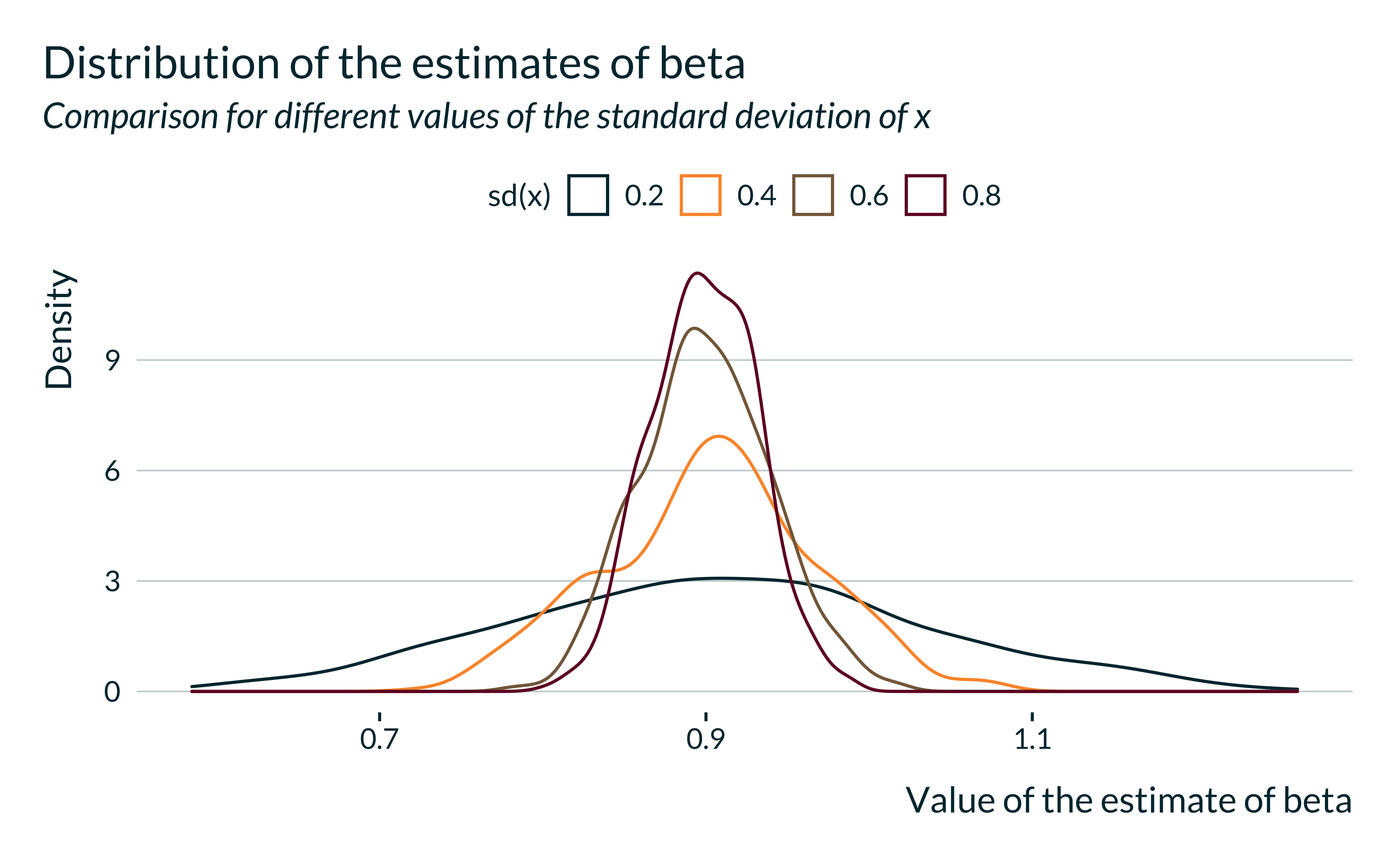
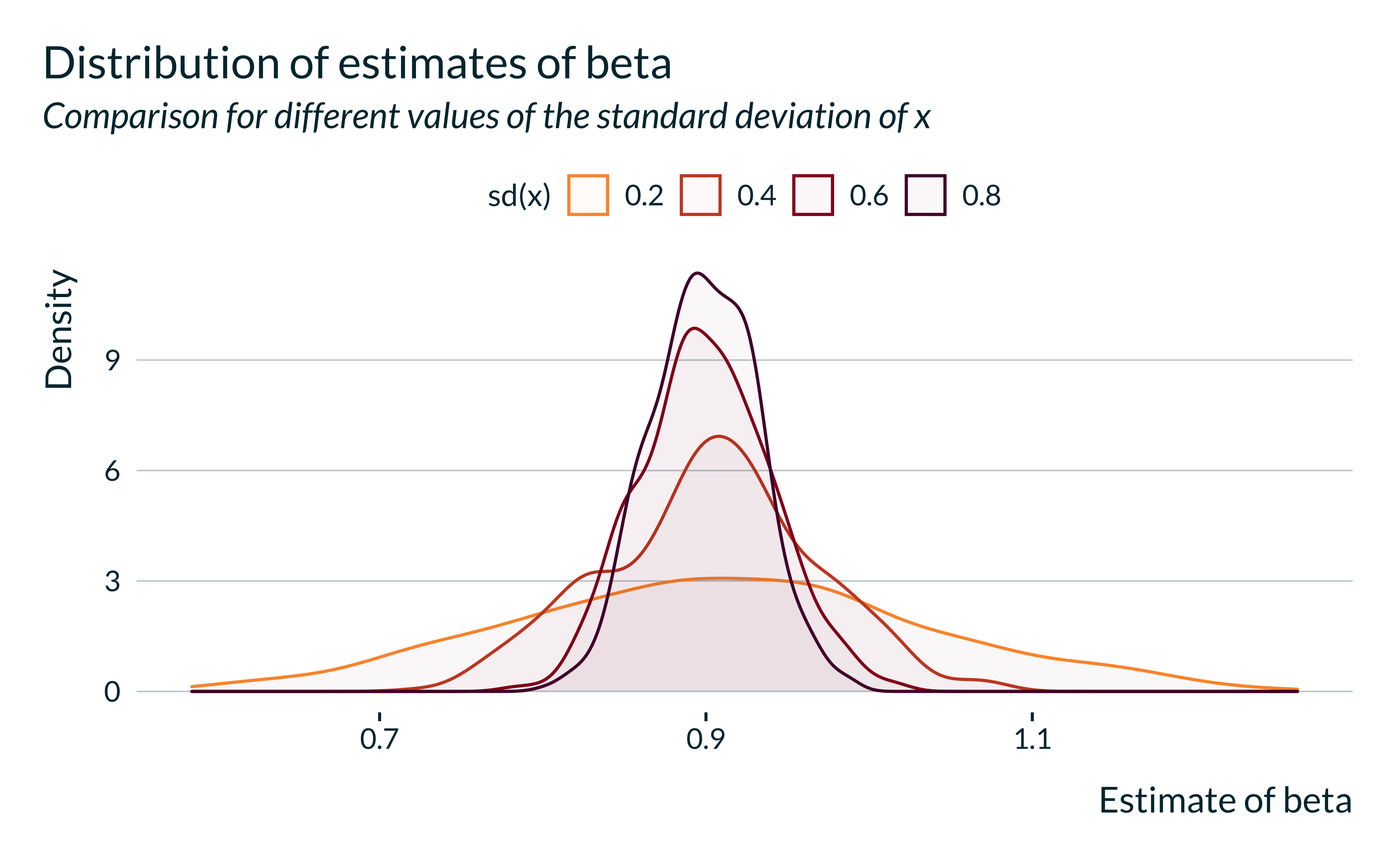
FIxing Leo's comments

diff --git a/docs/posts/2022-10-13-running-simulations/index.html b/docs/posts/2022-10-13-running-simulations/index.html
@@ -90,7 +90,7 @@ code span.wa { color: #5e5e5e; font-style: italic; } /* Warning */
   <!--radix_placeholder_meta_tags-->
 <title>Vincent Bagilet: Running simulations</title>
 
-<meta property="description" itemprop="description" content="In this short tutorial I present a simple workflow I use to run econometrics simulations in R."/>
+<meta property="description" itemprop="description" content="In this short tutorial I present a simple workflow I use to run simulations for regression analysis in R."/>
 
 <link rel="canonical" href="https://vincentbagilet.github.io/posts/2022-10-13-running-simulations/"/>
 
@@ -102,7 +102,7 @@ code span.wa { color: #5e5e5e; font-style: italic; } /* Warning */
 <!--  https://developers.facebook.com/docs/sharing/webmasters#markup -->
 <meta property="og:title" content="Vincent Bagilet: Running simulations"/>
 <meta property="og:type" content="article"/>
-<meta property="og:description" content="In this short tutorial I present a simple workflow I use to run econometrics simulations in R."/>
+<meta property="og:description" content="In this short tutorial I present a simple workflow I use to run simulations for regression analysis in R."/>
 <meta property="og:url" content="https://vincentbagilet.github.io/posts/2022-10-13-running-simulations/"/>
 <meta property="og:image" content="https://vincentbagilet.github.io/posts/2022-10-13-running-simulations/spiral.jpg"/>
 <meta property="og:locale" content="en_US"/>
@@ -111,7 +111,7 @@ code span.wa { color: #5e5e5e; font-style: italic; } /* Warning */
 <!--  https://dev.twitter.com/cards/types/summary -->
 <meta property="twitter:card" content="summary_large_image"/>
 <meta property="twitter:title" content="Vincent Bagilet: Running simulations"/>
-<meta property="twitter:description" content="In this short tutorial I present a simple workflow I use to run econometrics simulations in R."/>
+<meta property="twitter:description" content="In this short tutorial I present a simple workflow I use to run simulations for regression analysis in R."/>
 <meta property="twitter:url" content="https://vincentbagilet.github.io/posts/2022-10-13-running-simulations/"/>
 <meta property="twitter:image" content="https://vincentbagilet.github.io/posts/2022-10-13-running-simulations/spiral.jpg"/>
 
@@ -119,7 +119,7 @@ code span.wa { color: #5e5e5e; font-style: italic; } /* Warning */
   <!--radix_placeholder_rmarkdown_metadata-->
 
 <script type="text/json" id="radix-rmarkdown-metadata">
-{"type":"list","attributes":{"names":{"type":"character","attributes":{},"value":["title","description","preview","categories","author","date","citation","output","editor_options","citation_url","canonical_url"]}},"value":[{"type":"character","attributes":{},"value":["Running simulations"]},{"type":"character","attributes":{},"value":["In this short tutorial I present a simple workflow I use to run econometrics simulations in R."]},{"type":"character","attributes":{},"value":["spiral.jpg"]},{"type":"character","attributes":{},"value":["R","Simulations","Tutorial"]},{"type":"list","attributes":{},"value":[{"type":"list","attributes":{"names":{"type":"character","attributes":{},"value":["name","url"]}},"value":[{"type":"character","attributes":{},"value":["Vincent Bagilet"]},{"type":"list","attributes":{"names":{"type":"character","attributes":{},"value":["https://vincentbagilet.github.io"]}},"value":[{"type":"NULL"}]}]}]},{"type":"character","attributes":{},"value":["2022-10-13"]},{"type":"logical","attributes":{},"value":[false]},{"type":"list","attributes":{"names":{"type":"character","attributes":{},"value":["distill::distill_article"]}},"value":[{"type":"list","attributes":{"names":{"type":"character","attributes":{},"value":["self_contained"]}},"value":[{"type":"logical","attributes":{},"value":[false]}]}]},{"type":"list","attributes":{"names":{"type":"character","attributes":{},"value":["chunk_output_type"]}},"value":[{"type":"character","attributes":{},"value":["console"]}]},{"type":"character","attributes":{},"value":["https://vincentbagilet.github.io/posts/2022-10-13-running-simulations/"]},{"type":"character","attributes":{},"value":["https://vincentbagilet.github.io/posts/2022-10-13-running-simulations/"]}]}
+{"type":"list","attributes":{"names":{"type":"character","attributes":{},"value":["title","description","preview","categories","author","date","citation","output","editor_options","citation_url","canonical_url"]}},"value":[{"type":"character","attributes":{},"value":["Running simulations"]},{"type":"character","attributes":{},"value":["In this short tutorial I present a simple workflow I use to run simulations for regression analysis in R."]},{"type":"character","attributes":{},"value":["spiral.jpg"]},{"type":"character","attributes":{},"value":["R","Simulations","Tutorial"]},{"type":"list","attributes":{},"value":[{"type":"list","attributes":{"names":{"type":"character","attributes":{},"value":["name","url"]}},"value":[{"type":"character","attributes":{},"value":["Vincent Bagilet"]},{"type":"list","attributes":{"names":{"type":"character","attributes":{},"value":["https://vincentbagilet.github.io"]}},"value":[{"type":"NULL"}]}]}]},{"type":"character","attributes":{},"value":["2022-10-13"]},{"type":"logical","attributes":{},"value":[false]},{"type":"list","attributes":{"names":{"type":"character","attributes":{},"value":["distill::distill_article"]}},"value":[{"type":"list","attributes":{"names":{"type":"character","attributes":{},"value":["self_contained"]}},"value":[{"type":"logical","attributes":{},"value":[false]}]}]},{"type":"list","attributes":{"names":{"type":"character","attributes":{},"value":["chunk_output_type"]}},"value":[{"type":"character","attributes":{},"value":["console"]}]},{"type":"character","attributes":{},"value":["https://vincentbagilet.github.io/posts/2022-10-13-running-simulations/"]},{"type":"character","attributes":{},"value":["https://vincentbagilet.github.io/posts/2022-10-13-running-simulations/"]}]}
 </script>
 <!--/radix_placeholder_rmarkdown_metadata-->
   
@@ -2202,7 +2202,7 @@ d-appendix d-footnote-list a.footnote-backlink {
 <!--radix_placeholder_front_matter-->
 
 <script id="distill-front-matter" type="text/json">
-{"title":"Running simulations","description":"In this short tutorial I present a simple workflow I use to run econometrics simulations in R.","authors":[{"author":"Vincent Bagilet","authorURL":{"https://vincentbagilet.github.io":{}},"affiliation":"&nbsp;","affiliationURL":"#","orcidID":""}],"publishedDate":"2022-10-13T00:00:00.000-04:00","citationText":"Bagilet, 2022"}
+{"title":"Running simulations","description":"In this short tutorial I present a simple workflow I use to run simulations for regression analysis in R.","authors":[{"author":"Vincent Bagilet","authorURL":{"https://vincentbagilet.github.io":{}},"affiliation":"&nbsp;","affiliationURL":"#","orcidID":""}],"publishedDate":"2022-10-13T00:00:00.000-04:00","citationText":"Bagilet, 2022"}
 </script>
 
 <!--/radix_placeholder_front_matter-->
@@ -2234,7 +2234,7 @@ d-appendix d-footnote-list a.footnote-backlink {
   <a href="../../projects.html#category:Tutorial" class="dt-tag">Tutorial</a>
 </div>
 <!--/radix_placeholder_categories-->
-<p><p>In this short tutorial I present a simple workflow I use to run econometrics simulations in R.</p></p>
+<p><p>In this short tutorial I present a simple workflow I use to run simulations for regression analysis in R.</p></p>
 </div>
 
 <div class="d-byline">
@@ -2244,7 +2244,7 @@ d-appendix d-footnote-list a.footnote-backlink {
 </div>
 
 <div class="d-article">
-<p>This tutorial describes the workflow I use to run fake-data econometrics simulations in R. At the end of the document one can find a template to run a simple simulation from A to Z. It can be copied/pasted and easily adapted to address specific questions.</p>
+<p>This tutorial describes the workflow I use to run fake-data simulations for regression analysis in R. At the end of the document one can find a template to run a simple simulation from A to Z. It can be copied/pasted and easily adapted to address specific questions.</p>
 <p>I developed this workflow with <a href="https://lzabrocki.github.io/">Léo Zabrocki</a>. On <a href="https://vincentbagilet.github.io/causal_inflation/">the website of one of our projects</a>, we describe how we ran more advanced fake data simulations for various causal inference methods (IV, event-study, RDD, matching). On <a href="https://vincentbagilet.github.io/inference_pollution/">the website of another project</a>, we describe how we ran simulations based on real data, also for various causal inference methods.</p>
 <h1 id="simulation-workflow">Simulation workflow</h1>
 <ul>
@@ -2264,7 +2264,7 @@ d-appendix d-footnote-list a.footnote-backlink {
 <p><span class="math display">\[ y_i = \alpha + \beta x_i + u_i \]</span>
 for individual <span class="math inline">\(i \in \{1, .., N\}\)</span> where <span class="math inline">\(u_i \sim \mathcal{N}(0, \sigma_u^2)\)</span> and <span class="math inline">\(x_i \sim \mathcal{N}(\mu_x, \sigma_x^2)\)</span>.</p>
 <h3 id="packages">Packages</h3>
-<p>First load the packages necessary to run the simulation. Here I also load an additional and non necessary package that I useto produce my graphs.</p>
+<p>First load the packages necessary to run the simulation. Here I also load an additional and a non-necessary package to set my default ggplot theme for graphs.</p>
 <div class="layout-chunk" data-layout="l-body">
 <div class="sourceCode">
 <pre class="sourceCode r"><code class="sourceCode r"><span><span class='co'>#necessary packages</span></span>
@@ -2273,7 +2273,7 @@ for individual <span class="math inline">\(i \in \{1, .., N\}\)</span> where <sp
 <span></span>
 <span><span class='co'>#additional packages</span></span>
 <span><span class='kw'><a href='https://rdrr.io/r/base/library.html'>library</a></span><span class='op'>(</span><span class='va'><a href='https://vincentbagilet.github.io/mediocrethemes/'>mediocrethemes</a></span><span class='op'>)</span> <span class='co'>#my ggplot theme package</span></span>
-<span><span class='fu'>mediocrethemes</span><span class='fu'>::</span><span class='fu'><a href='https://vincentbagilet.github.io/mediocrethemes/reference/set_mediocre_all.html'>set_mediocre_all</a></span><span class='op'>(</span><span class='op'>)</span> <span class='co'>#to produce all graphs with my theme</span></span></code></pre>
+<span><span class='fu'>mediocrethemes</span><span class='fu'>::</span><span class='fu'><a href='https://vincentbagilet.github.io/mediocrethemes/reference/set_mediocre_all.html'>set_mediocre_all</a></span><span class='op'>(</span>gradient <span class='op'>=</span> <span class='st'>"right"</span><span class='op'>)</span> <span class='co'>#to produce all graphs with my theme</span></span></code></pre>
 </div>
 </div>
 <h3 id="define-a-set-of-baseline-parameters">Define a set of baseline parameters</h3>
@@ -2329,7 +2329,7 @@ for individual <span class="math inline">\(i \in \{1, .., N\}\)</span> where <sp
 <div class="layout-chunk" data-layout="l-body">
 <div class="sourceCode">
 <pre class="sourceCode r"><code class="sourceCode r"><span><span class='va'>run_estim</span> <span class='op'>&lt;-</span> <span class='kw'>function</span><span class='op'>(</span><span class='va'>data</span><span class='op'>)</span> <span class='op'>{</span></span>
-<span>  <span class='va'>reg</span> <span class='op'>&lt;-</span> <span class='fu'><a href='https://rdrr.io/r/stats/lm.html'>lm</a></span><span class='op'>(</span>data <span class='op'>=</span> <span class='va'>data</span>, <span class='va'>y</span> <span class='op'>~</span> <span class='va'>x</span><span class='op'>)</span> <span class='op'><a href='https://magrittr.tidyverse.org/reference/pipe.html'>%&gt;%</a></span></span>
+<span>  <span class='fu'><a href='https://rdrr.io/r/stats/lm.html'>lm</a></span><span class='op'>(</span>data <span class='op'>=</span> <span class='va'>data</span>, <span class='va'>y</span> <span class='op'>~</span> <span class='va'>x</span><span class='op'>)</span> <span class='op'><a href='https://magrittr.tidyverse.org/reference/pipe.html'>%&gt;%</a></span></span>
 <span>    <span class='fu'>broom</span><span class='fu'>::</span><span class='fu'><a href='https://generics.r-lib.org/reference/tidy.html'>tidy</a></span><span class='op'>(</span><span class='op'>)</span> <span class='op'><a href='https://magrittr.tidyverse.org/reference/pipe.html'>%&gt;%</a></span></span>
 <span>    <span class='fu'><a href='https://dplyr.tidyverse.org/reference/filter.html'>filter</a></span><span class='op'>(</span><span class='va'>term</span> <span class='op'>==</span> <span class='st'>"x"</span><span class='op'>)</span> </span>
 <span><span class='op'>}</span></span></code></pre>
@@ -2350,9 +2350,9 @@ for individual <span class="math inline">\(i \in \{1, .., N\}\)</span> where <sp
 <tbody>
 <tr class="odd">
 <td style="text-align: left;">x</td>
-<td style="text-align: right;">0.929199</td>
-<td style="text-align: right;">0.027542</td>
-<td style="text-align: right;">33.7375</td>
+<td style="text-align: right;">0.93</td>
+<td style="text-align: right;">0.03</td>
+<td style="text-align: right;">33.74</td>
 <td style="text-align: right;">0</td>
 </tr>
 </tbody>
@@ -2584,13 +2584,13 @@ for individual <span class="math inline">\(i \in \{1, .., N\}\)</span> where <sp
 <pre class="sourceCode r"><code class="sourceCode r"><span><span class='va'>result_sim_long</span> <span class='op'><a href='https://magrittr.tidyverse.org/reference/pipe.html'>%&gt;%</a></span> </span>
 <span>  <span class='fu'><a href='https://dplyr.tidyverse.org/reference/mutate.html'>mutate</a></span><span class='op'>(</span>sigma_x <span class='op'>=</span> <span class='fu'><a href='https://rdrr.io/r/base/factor.html'>as.factor</a></span><span class='op'>(</span><span class='va'>sigma_x</span><span class='op'>)</span><span class='op'>)</span> <span class='op'><a href='https://magrittr.tidyverse.org/reference/pipe.html'>%&gt;%</a></span> </span>
 <span>  <span class='fu'><a href='https://ggplot2.tidyverse.org/reference/ggplot.html'>ggplot</a></span><span class='op'>(</span><span class='op'>)</span> <span class='op'>+</span></span>
-<span>  <span class='fu'><a href='https://ggplot2.tidyverse.org/reference/geom_density.html'>geom_density</a></span><span class='op'>(</span><span class='fu'><a href='https://ggplot2.tidyverse.org/reference/aes.html'>aes</a></span><span class='op'>(</span>x <span class='op'>=</span> <span class='va'>estimate</span>, color <span class='op'>=</span> <span class='va'>sigma_x</span><span class='op'>)</span>, alpha <span class='op'>=</span> <span class='fl'>0</span><span class='op'>)</span> <span class='op'>+</span></span>
+<span>  <span class='fu'><a href='https://ggplot2.tidyverse.org/reference/geom_density.html'>geom_density</a></span><span class='op'>(</span><span class='fu'><a href='https://ggplot2.tidyverse.org/reference/aes.html'>aes</a></span><span class='op'>(</span>x <span class='op'>=</span> <span class='va'>estimate</span>, color <span class='op'>=</span> <span class='va'>sigma_x</span><span class='op'>)</span>, alpha <span class='op'>=</span> <span class='fl'>0.03</span><span class='op'>)</span> <span class='op'>+</span></span>
 <span>  <span class='fu'><a href='https://ggplot2.tidyverse.org/reference/labs.html'>labs</a></span><span class='op'>(</span></span>
-<span>    title <span class='op'>=</span> <span class='st'>"Distribution of the estimates of beta"</span>,</span>
+<span>    title <span class='op'>=</span> <span class='st'>"Distribution of estimates of beta"</span>,</span>
 <span>    subtitle <span class='op'>=</span> <span class='st'>"Comparison for different values of the standard deviation of x"</span>,</span>
 <span>    color <span class='op'>=</span> <span class='st'>"sd(x)"</span>,</span>
 <span>    fill <span class='op'>=</span> <span class='st'>"sd(x)"</span>,</span>
-<span>    x <span class='op'>=</span> <span class='st'>"Value of the estimate of beta"</span>,</span>
+<span>    x <span class='op'>=</span> <span class='st'>"Estimate of beta"</span>,</span>
 <span>    y <span class='op'>=</span> <span class='st'>"Density"</span></span>
 <span>  <span class='op'>)</span></span></code></pre>
 </div>
@@ -2636,7 +2636,7 @@ for individual <span class="math inline">\(i \in \{1, .., N\}\)</span> where <sp
 <span></span>
 <span><span class='co'>#function to run the estimation</span></span>
 <span><span class='va'>run_estim</span> <span class='op'>&lt;-</span> <span class='kw'>function</span><span class='op'>(</span><span class='va'>data</span><span class='op'>)</span> <span class='op'>{</span></span>
-<span>  <span class='va'>reg</span> <span class='op'>&lt;-</span> <span class='fu'><a href='https://rdrr.io/r/stats/lm.html'>lm</a></span><span class='op'>(</span>data <span class='op'>=</span> <span class='va'>data</span>, <span class='va'>y</span> <span class='op'>~</span> <span class='va'>x</span><span class='op'>)</span> <span class='op'><a href='https://magrittr.tidyverse.org/reference/pipe.html'>%&gt;%</a></span></span>
+<span>  <span class='fu'><a href='https://rdrr.io/r/stats/lm.html'>lm</a></span><span class='op'>(</span>data <span class='op'>=</span> <span class='va'>data</span>, <span class='va'>y</span> <span class='op'>~</span> <span class='va'>x</span><span class='op'>)</span> <span class='op'><a href='https://magrittr.tidyverse.org/reference/pipe.html'>%&gt;%</a></span></span>
 <span>    <span class='fu'>broom</span><span class='fu'>::</span><span class='fu'><a href='https://generics.r-lib.org/reference/tidy.html'>tidy</a></span><span class='op'>(</span><span class='op'>)</span> <span class='op'><a href='https://magrittr.tidyverse.org/reference/pipe.html'>%&gt;%</a></span></span>
 <span>    <span class='fu'><a href='https://dplyr.tidyverse.org/reference/filter.html'>filter</a></span><span class='op'>(</span><span class='va'>term</span> <span class='op'>==</span> <span class='st'>"x"</span><span class='op'>)</span> </span>
 <span><span class='op'>}</span></span>
@@ -2668,7 +2668,7 @@ for individual <span class="math inline">\(i \in \{1, .., N\}\)</span> where <sp
 <section class="footnotes footnotes-end-of-document" role="doc-endnotes">
 <hr />
 <ol>
-<li id="fn1" role="doc-endnote"><p>The thumbnail photo is by <a href="https://unsplash.com/@flub?utm_source=unsplash&amp;utm_medium=referral&amp;utm_content=creditCopyText">Maxime Lebrun</a> on <a href="https://unsplash.com/">Unsplash</a><a href="#fnref1" class="footnote-back" role="doc-backlink">↩</a></p></li>
+<li id="fn1" role="doc-endnote"><p>The thumbnail photo: <a href="https://unsplash.com/@flub?utm_source=unsplash&amp;utm_medium=referral&amp;utm_content=creditCopyText">Maxime Lebrun</a> on <a href="https://unsplash.com/">Unsplash</a><a href="#fnref1" class="footnote-back" role="doc-backlink">↩</a></p></li>
 </ol>
 </section>
 <!--radix_placeholder_article_footer-->

diff --git a/_posts/2022-10-13-running-simulations/running-simulations.html b/_posts/2022-10-13-running-simulations/running-simulations.html
@@ -90,7 +90,7 @@ code span.wa { color: #5e5e5e; font-style: italic; } /* Warning */
   <!--radix_placeholder_meta_tags-->
   <title>Running simulations</title>
 
-  <meta property="description" itemprop="description" content="In this short tutorial I present a simple workflow I use to run econometrics simulations in R."/>
+  <meta property="description" itemprop="description" content="In this short tutorial I present a simple workflow I use to run simulations for regression analysis in R."/>
 
 
   <!--  https://schema.org/Article -->
@@ -101,19 +101,19 @@ code span.wa { color: #5e5e5e; font-style: italic; } /* Warning */
   <!--  https://developers.facebook.com/docs/sharing/webmasters#markup -->
   <meta property="og:title" content="Running simulations"/>
   <meta property="og:type" content="article"/>
-  <meta property="og:description" content="In this short tutorial I present a simple workflow I use to run econometrics simulations in R."/>
+  <meta property="og:description" content="In this short tutorial I present a simple workflow I use to run simulations for regression analysis in R."/>
   <meta property="og:locale" content="en_US"/>
 
   <!--  https://dev.twitter.com/cards/types/summary -->
   <meta property="twitter:card" content="summary"/>
   <meta property="twitter:title" content="Running simulations"/>
-  <meta property="twitter:description" content="In this short tutorial I present a simple workflow I use to run econometrics simulations in R."/>
+  <meta property="twitter:description" content="In this short tutorial I present a simple workflow I use to run simulations for regression analysis in R."/>
 
   <!--/radix_placeholder_meta_tags-->
   <!--radix_placeholder_rmarkdown_metadata-->
 
   <script type="text/json" id="radix-rmarkdown-metadata">
-  {"type":"list","attributes":{"names":{"type":"character","attributes":{},"value":["title","description","preview","categories","author","date","citation","output","editor_options"]}},"value":[{"type":"character","attributes":{},"value":["Running simulations"]},{"type":"character","attributes":{},"value":["In this short tutorial I present a simple workflow I use to run econometrics simulations in R.\n"]},{"type":"character","attributes":{},"value":["spiral.jpg"]},{"type":"character","attributes":{},"value":["R","Simulations","Tutorial"]},{"type":"list","attributes":{},"value":[{"type":"list","attributes":{"names":{"type":"character","attributes":{},"value":["name","url"]}},"value":[{"type":"character","attributes":{},"value":["Vincent Bagilet"]},{"type":"list","attributes":{"names":{"type":"character","attributes":{},"value":["https://vincentbagilet.github.io"]}},"value":[{"type":"NULL"}]}]}]},{"type":"character","attributes":{},"value":["2022-10-13"]},{"type":"logical","attributes":{},"value":[false]},{"type":"list","attributes":{"names":{"type":"character","attributes":{},"value":["distill::distill_article"]}},"value":[{"type":"list","attributes":{"names":{"type":"character","attributes":{},"value":["self_contained"]}},"value":[{"type":"logical","attributes":{},"value":[false]}]}]},{"type":"list","attributes":{"names":{"type":"character","attributes":{},"value":["chunk_output_type"]}},"value":[{"type":"character","attributes":{},"value":["console"]}]}]}
+  {"type":"list","attributes":{"names":{"type":"character","attributes":{},"value":["title","description","preview","categories","author","date","citation","output","editor_options"]}},"value":[{"type":"character","attributes":{},"value":["Running simulations"]},{"type":"character","attributes":{},"value":["In this short tutorial I present a simple workflow I use to run simulations for regression analysis in R.\n"]},{"type":"character","attributes":{},"value":["spiral.jpg"]},{"type":"character","attributes":{},"value":["R","Simulations","Tutorial"]},{"type":"list","attributes":{},"value":[{"type":"list","attributes":{"names":{"type":"character","attributes":{},"value":["name","url"]}},"value":[{"type":"character","attributes":{},"value":["Vincent Bagilet"]},{"type":"list","attributes":{"names":{"type":"character","attributes":{},"value":["https://vincentbagilet.github.io"]}},"value":[{"type":"NULL"}]}]}]},{"type":"character","attributes":{},"value":["2022-10-13"]},{"type":"logical","attributes":{},"value":[false]},{"type":"list","attributes":{"names":{"type":"character","attributes":{},"value":["distill::distill_article"]}},"value":[{"type":"list","attributes":{"names":{"type":"character","attributes":{},"value":["self_contained"]}},"value":[{"type":"logical","attributes":{},"value":[false]}]}]},{"type":"list","attributes":{"names":{"type":"character","attributes":{},"value":["chunk_output_type"]}},"value":[{"type":"character","attributes":{},"value":["console"]}]}]}
   </script>
   <!--/radix_placeholder_rmarkdown_metadata-->
   
@@ -1500,7 +1500,7 @@ code span.wa { color: #5e5e5e; font-style: italic; } /* Warning */
 <!--radix_placeholder_front_matter-->
 
 <script id="distill-front-matter" type="text/json">
-{"title":"Running simulations","description":"In this short tutorial I present a simple workflow I use to run econometrics simulations in R.","authors":[{"author":"Vincent Bagilet","authorURL":{"https://vincentbagilet.github.io":{}},"affiliation":"&nbsp;","affiliationURL":"#","orcidID":""}],"publishedDate":"2022-10-13T00:00:00.000-04:00","citationText":"Bagilet, 2022"}
+{"title":"Running simulations","description":"In this short tutorial I present a simple workflow I use to run simulations for regression analysis in R.","authors":[{"author":"Vincent Bagilet","authorURL":{"https://vincentbagilet.github.io":{}},"affiliation":"&nbsp;","affiliationURL":"#","orcidID":""}],"publishedDate":"2022-10-13T00:00:00.000-04:00","citationText":"Bagilet, 2022"}
 </script>
 
 <!--/radix_placeholder_front_matter-->
@@ -1518,7 +1518,7 @@ code span.wa { color: #5e5e5e; font-style: italic; } /* Warning */
 <div class="dt-tag">Tutorial</div>
 </div>
 <!--/radix_placeholder_categories-->
-<p><p>In this short tutorial I present a simple workflow I use to run econometrics simulations in R.</p></p>
+<p><p>In this short tutorial I present a simple workflow I use to run simulations for regression analysis in R.</p></p>
 </div>
 
 <div class="d-byline">
@@ -1528,7 +1528,7 @@ code span.wa { color: #5e5e5e; font-style: italic; } /* Warning */
 </div>
 
 <div class="d-article">
-<p>This tutorial describes the workflow I use to run fake-data econometrics simulations in R. At the end of the document one can find a template to run a simple simulation from A to Z. It can be copied/pasted and easily adapted to address specific questions.</p>
+<p>This tutorial describes the workflow I use to run fake-data simulations for regression analysis in R. At the end of the document one can find a template to run a simple simulation from A to Z. It can be copied/pasted and easily adapted to address specific questions.</p>
 <p>I developed this workflow with <a href="https://lzabrocki.github.io/">Léo Zabrocki</a>. On <a href="https://vincentbagilet.github.io/causal_inflation/">the website of one of our projects</a>, we describe how we ran more advanced fake data simulations for various causal inference methods (IV, event-study, RDD, matching). On <a href="https://vincentbagilet.github.io/inference_pollution/">the website of another project</a>, we describe how we ran simulations based on real data, also for various causal inference methods.</p>
 <h1 id="simulation-workflow">Simulation workflow</h1>
 <ul>
@@ -1548,7 +1548,7 @@ code span.wa { color: #5e5e5e; font-style: italic; } /* Warning */
 <p><span class="math display">\[ y_i = \alpha + \beta x_i + u_i \]</span>
 for individual <span class="math inline">\(i \in \{1, .., N\}\)</span> where <span class="math inline">\(u_i \sim \mathcal{N}(0, \sigma_u^2)\)</span> and <span class="math inline">\(x_i \sim \mathcal{N}(\mu_x, \sigma_x^2)\)</span>.</p>
 <h3 id="packages">Packages</h3>
-<p>First load the packages necessary to run the simulation. Here I also load an additional and non necessary package that I useto produce my graphs.</p>
+<p>First load the packages necessary to run the simulation. Here I also load an additional and a non-necessary package to set my default ggplot theme for graphs.</p>
 <div class="layout-chunk" data-layout="l-body">
 <div class="sourceCode">
 <pre class="sourceCode r"><code class="sourceCode r"><span><span class='co'>#necessary packages</span></span>
@@ -1557,7 +1557,7 @@ for individual <span class="math inline">\(i \in \{1, .., N\}\)</span> where <sp
 <span></span>
 <span><span class='co'>#additional packages</span></span>
 <span><span class='kw'><a href='https://rdrr.io/r/base/library.html'>library</a></span><span class='op'>(</span><span class='va'><a href='https://vincentbagilet.github.io/mediocrethemes/'>mediocrethemes</a></span><span class='op'>)</span> <span class='co'>#my ggplot theme package</span></span>
-<span><span class='fu'>mediocrethemes</span><span class='fu'>::</span><span class='fu'><a href='https://vincentbagilet.github.io/mediocrethemes/reference/set_mediocre_all.html'>set_mediocre_all</a></span><span class='op'>(</span><span class='op'>)</span> <span class='co'>#to produce all graphs with my theme</span></span></code></pre>
+<span><span class='fu'>mediocrethemes</span><span class='fu'>::</span><span class='fu'><a href='https://vincentbagilet.github.io/mediocrethemes/reference/set_mediocre_all.html'>set_mediocre_all</a></span><span class='op'>(</span>gradient <span class='op'>=</span> <span class='st'>"right"</span><span class='op'>)</span> <span class='co'>#to produce all graphs with my theme</span></span></code></pre>
 </div>
 </div>
 <h3 id="define-a-set-of-baseline-parameters">Define a set of baseline parameters</h3>
@@ -1613,7 +1613,7 @@ for individual <span class="math inline">\(i \in \{1, .., N\}\)</span> where <sp
 <div class="layout-chunk" data-layout="l-body">
 <div class="sourceCode">
 <pre class="sourceCode r"><code class="sourceCode r"><span><span class='va'>run_estim</span> <span class='op'>&lt;-</span> <span class='kw'>function</span><span class='op'>(</span><span class='va'>data</span><span class='op'>)</span> <span class='op'>{</span></span>
-<span>  <span class='va'>reg</span> <span class='op'>&lt;-</span> <span class='fu'><a href='https://rdrr.io/r/stats/lm.html'>lm</a></span><span class='op'>(</span>data <span class='op'>=</span> <span class='va'>data</span>, <span class='va'>y</span> <span class='op'>~</span> <span class='va'>x</span><span class='op'>)</span> <span class='op'><a href='https://magrittr.tidyverse.org/reference/pipe.html'>%&gt;%</a></span></span>
+<span>  <span class='fu'><a href='https://rdrr.io/r/stats/lm.html'>lm</a></span><span class='op'>(</span>data <span class='op'>=</span> <span class='va'>data</span>, <span class='va'>y</span> <span class='op'>~</span> <span class='va'>x</span><span class='op'>)</span> <span class='op'><a href='https://magrittr.tidyverse.org/reference/pipe.html'>%&gt;%</a></span></span>
 <span>    <span class='fu'>broom</span><span class='fu'>::</span><span class='fu'><a href='https://generics.r-lib.org/reference/tidy.html'>tidy</a></span><span class='op'>(</span><span class='op'>)</span> <span class='op'><a href='https://magrittr.tidyverse.org/reference/pipe.html'>%&gt;%</a></span></span>
 <span>    <span class='fu'><a href='https://dplyr.tidyverse.org/reference/filter.html'>filter</a></span><span class='op'>(</span><span class='va'>term</span> <span class='op'>==</span> <span class='st'>"x"</span><span class='op'>)</span> </span>
 <span><span class='op'>}</span></span></code></pre>
@@ -1634,9 +1634,9 @@ for individual <span class="math inline">\(i \in \{1, .., N\}\)</span> where <sp
 <tbody>
 <tr class="odd">
 <td style="text-align: left;">x</td>
-<td style="text-align: right;">0.929199</td>
-<td style="text-align: right;">0.027542</td>
-<td style="text-align: right;">33.7375</td>
+<td style="text-align: right;">0.93</td>
+<td style="text-align: right;">0.03</td>
+<td style="text-align: right;">33.74</td>
 <td style="text-align: right;">0</td>
 </tr>
 </tbody>
@@ -1868,13 +1868,13 @@ for individual <span class="math inline">\(i \in \{1, .., N\}\)</span> where <sp
 <pre class="sourceCode r"><code class="sourceCode r"><span><span class='va'>result_sim_long</span> <span class='op'><a href='https://magrittr.tidyverse.org/reference/pipe.html'>%&gt;%</a></span> </span>
 <span>  <span class='fu'><a href='https://dplyr.tidyverse.org/reference/mutate.html'>mutate</a></span><span class='op'>(</span>sigma_x <span class='op'>=</span> <span class='fu'><a href='https://rdrr.io/r/base/factor.html'>as.factor</a></span><span class='op'>(</span><span class='va'>sigma_x</span><span class='op'>)</span><span class='op'>)</span> <span class='op'><a href='https://magrittr.tidyverse.org/reference/pipe.html'>%&gt;%</a></span> </span>
 <span>  <span class='fu'><a href='https://ggplot2.tidyverse.org/reference/ggplot.html'>ggplot</a></span><span class='op'>(</span><span class='op'>)</span> <span class='op'>+</span></span>
-<span>  <span class='fu'><a href='https://ggplot2.tidyverse.org/reference/geom_density.html'>geom_density</a></span><span class='op'>(</span><span class='fu'><a href='https://ggplot2.tidyverse.org/reference/aes.html'>aes</a></span><span class='op'>(</span>x <span class='op'>=</span> <span class='va'>estimate</span>, color <span class='op'>=</span> <span class='va'>sigma_x</span><span class='op'>)</span>, alpha <span class='op'>=</span> <span class='fl'>0</span><span class='op'>)</span> <span class='op'>+</span></span>
+<span>  <span class='fu'><a href='https://ggplot2.tidyverse.org/reference/geom_density.html'>geom_density</a></span><span class='op'>(</span><span class='fu'><a href='https://ggplot2.tidyverse.org/reference/aes.html'>aes</a></span><span class='op'>(</span>x <span class='op'>=</span> <span class='va'>estimate</span>, color <span class='op'>=</span> <span class='va'>sigma_x</span><span class='op'>)</span>, alpha <span class='op'>=</span> <span class='fl'>0.03</span><span class='op'>)</span> <span class='op'>+</span></span>
 <span>  <span class='fu'><a href='https://ggplot2.tidyverse.org/reference/labs.html'>labs</a></span><span class='op'>(</span></span>
-<span>    title <span class='op'>=</span> <span class='st'>"Distribution of the estimates of beta"</span>,</span>
+<span>    title <span class='op'>=</span> <span class='st'>"Distribution of estimates of beta"</span>,</span>
 <span>    subtitle <span class='op'>=</span> <span class='st'>"Comparison for different values of the standard deviation of x"</span>,</span>
 <span>    color <span class='op'>=</span> <span class='st'>"sd(x)"</span>,</span>
 <span>    fill <span class='op'>=</span> <span class='st'>"sd(x)"</span>,</span>
-<span>    x <span class='op'>=</span> <span class='st'>"Value of the estimate of beta"</span>,</span>
+<span>    x <span class='op'>=</span> <span class='st'>"Estimate of beta"</span>,</span>
 <span>    y <span class='op'>=</span> <span class='st'>"Density"</span></span>
 <span>  <span class='op'>)</span></span></code></pre>
 </div>
@@ -1920,7 +1920,7 @@ for individual <span class="math inline">\(i \in \{1, .., N\}\)</span> where <sp
 <span></span>
 <span><span class='co'>#function to run the estimation</span></span>
 <span><span class='va'>run_estim</span> <span class='op'>&lt;-</span> <span class='kw'>function</span><span class='op'>(</span><span class='va'>data</span><span class='op'>)</span> <span class='op'>{</span></span>
-<span>  <span class='va'>reg</span> <span class='op'>&lt;-</span> <span class='fu'><a href='https://rdrr.io/r/stats/lm.html'>lm</a></span><span class='op'>(</span>data <span class='op'>=</span> <span class='va'>data</span>, <span class='va'>y</span> <span class='op'>~</span> <span class='va'>x</span><span class='op'>)</span> <span class='op'><a href='https://magrittr.tidyverse.org/reference/pipe.html'>%&gt;%</a></span></span>
+<span>  <span class='fu'><a href='https://rdrr.io/r/stats/lm.html'>lm</a></span><span class='op'>(</span>data <span class='op'>=</span> <span class='va'>data</span>, <span class='va'>y</span> <span class='op'>~</span> <span class='va'>x</span><span class='op'>)</span> <span class='op'><a href='https://magrittr.tidyverse.org/reference/pipe.html'>%&gt;%</a></span></span>
 <span>    <span class='fu'>broom</span><span class='fu'>::</span><span class='fu'><a href='https://generics.r-lib.org/reference/tidy.html'>tidy</a></span><span class='op'>(</span><span class='op'>)</span> <span class='op'><a href='https://magrittr.tidyverse.org/reference/pipe.html'>%&gt;%</a></span></span>
 <span>    <span class='fu'><a href='https://dplyr.tidyverse.org/reference/filter.html'>filter</a></span><span class='op'>(</span><span class='va'>term</span> <span class='op'>==</span> <span class='st'>"x"</span><span class='op'>)</span> </span>
 <span><span class='op'>}</span></span>
@@ -1952,7 +1952,7 @@ for individual <span class="math inline">\(i \in \{1, .., N\}\)</span> where <sp
 <section class="footnotes footnotes-end-of-document" role="doc-endnotes">
 <hr />
 <ol>
-<li id="fn1" role="doc-endnote"><p>The thumbnail photo is by <a href="https://unsplash.com/@flub?utm_source=unsplash&amp;utm_medium=referral&amp;utm_content=creditCopyText">Maxime Lebrun</a> on <a href="https://unsplash.com/">Unsplash</a><a href="#fnref1" class="footnote-back" role="doc-backlink">↩</a></p></li>
+<li id="fn1" role="doc-endnote"><p>The thumbnail photo: <a href="https://unsplash.com/@flub?utm_source=unsplash&amp;utm_medium=referral&amp;utm_content=creditCopyText">Maxime Lebrun</a> on <a href="https://unsplash.com/">Unsplash</a><a href="#fnref1" class="footnote-back" role="doc-backlink">↩</a></p></li>
 </ol>
 </section>
 <!--radix_placeholder_article_footer-->

diff --git a/docs/projects.knit.html b/docs/projects.knit.html
@@ -7,7 +7,7 @@
   <meta name="viewport" content="width=device-width, initial-scale=1"/>
   <meta http-equiv="X-UA-Compatible" content="IE=Edge,chrome=1"/>
   <meta name="generator" content="distill" />
-  <link rel="alternate" type="application/rss+xml" href="https://vincentbagilet.github.io/projects.xml" />
+  <link rel="alternate" type="application/rss+xml" href="https://vincentbagilet.github.io/projects.knit.xml" />
 
   <style type="text/css">
   /* Hide doc at startup (prevent jankiness while JS renders/transforms) */
@@ -2166,14 +2166,6 @@ code span.wa { color: #5e5e5e; font-style: italic; } /* Warning */
   }</style>
   <!--/radix_placeholder_distill-->
   <script src="site_libs/header-attrs-2.16/header-attrs.js"></script>
-  <script src="site_libs/popper-2.6.0/popper.min.js"></script>
-  <link href="site_libs/tippy-6.2.7/tippy.css" rel="stylesheet" />
-  <link href="site_libs/tippy-6.2.7/tippy-light-border.css" rel="stylesheet" />
-  <script src="site_libs/tippy-6.2.7/tippy.umd.min.js"></script>
-  <script src="site_libs/anchor-4.2.2/anchor.min.js"></script>
-  <script src="site_libs/bowser-1.9.3/bowser.min.js"></script>
-  <script src="site_libs/webcomponents-2.0.0/webcomponents.js"></script>
-  <script src="site_libs/distill-2.2.21/template.v2.js"></script>
   <!--radix_placeholder_site_in_header-->
   <!--/radix_placeholder_site_in_header-->
 
